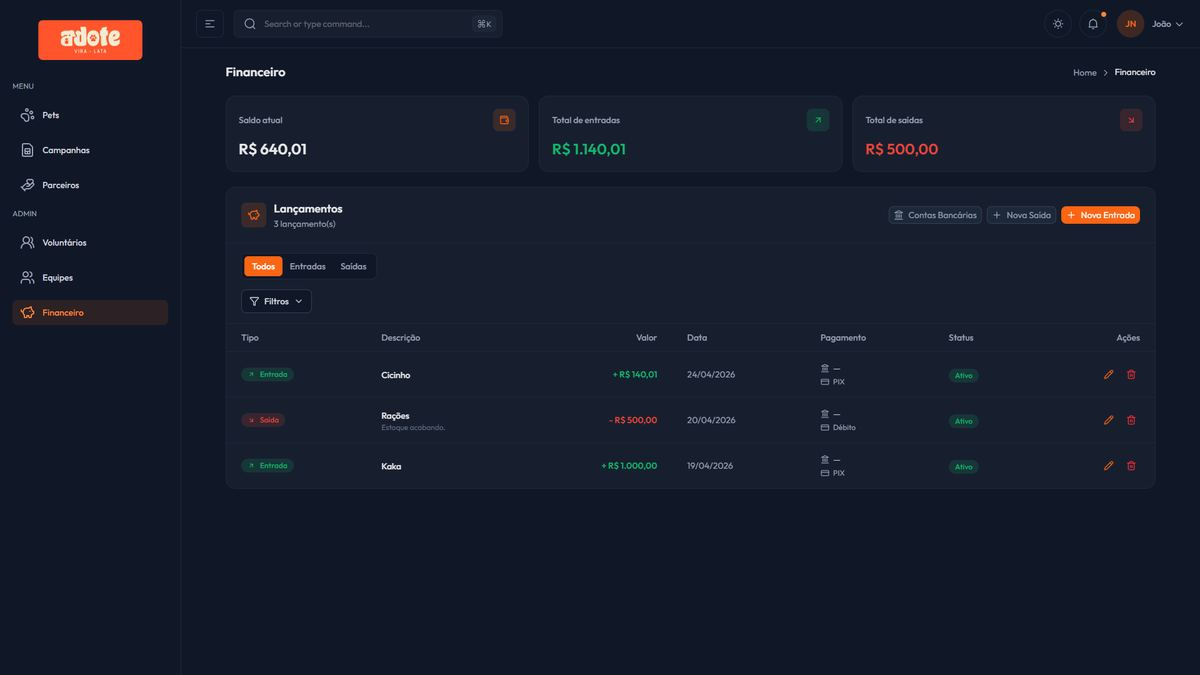
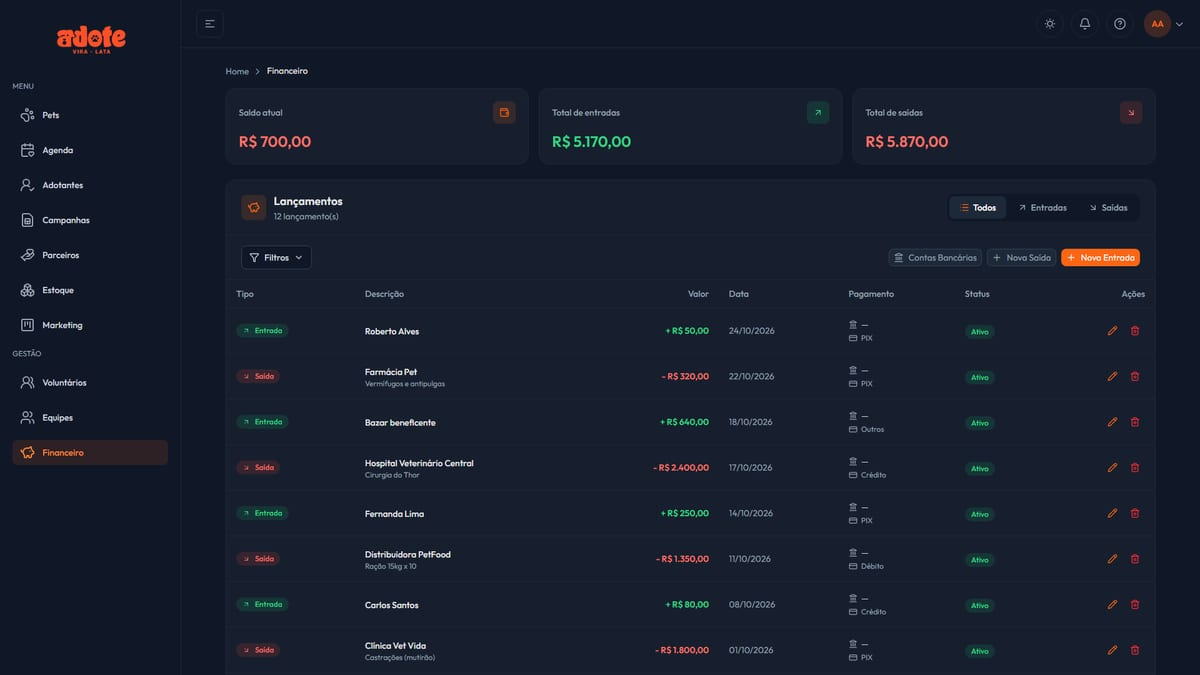
Atualiza projeto AdoteVL como full-stack
- AdoteVL passa a ser o primeiro card (destaque), com papel Full-stack
- Stack: React, TypeScript, Tailwind, NestJS e PostgreSQL; adiciona skill NestJS
- Novo resumo pt-BR/en cobrindo front-end, back-end, JWT, tempo real e PWA
- Galeria refeita com 9 telas da versão atual (kanban, pets, agenda, ficha, estoque, marketing, financeiro, tema claro e mobile)
- Remove prints antigos de modal, pets claro e voluntários

diff --git a/src/data/projects.ts b/src/data/projects.ts
@@ -1,9 +1,12 @@
+import adotevlAdotantesKanbanJpg from '@/assets/images/project-adotevl-adotantes-kanban.jpg'
+import adotevlAgendaJpg from '@/assets/images/project-adotevl-agenda.jpg'
+import adotevlEstoqueJpg from '@/assets/images/project-adotevl-estoque.jpg'
+import adotevlFichaJpg from '@/assets/images/project-adotevl-ficha.jpg'
 import adotevlFinanceiroJpg from '@/assets/images/project-adotevl-financeiro.jpg'
+import adotevlKanbanLightJpg from '@/assets/images/project-adotevl-kanban-light.jpg'
+import adotevlMarketingJpg from '@/assets/images/project-adotevl-marketing.jpg'
 import adotevlMobileJpg from '@/assets/images/project-adotevl-mobile.jpg'
-import adotevlModalJpg from '@/assets/images/project-adotevl-modal.jpg'
 import adotevlPetsJpg from '@/assets/images/project-adotevl-pets.jpg'
-import adotevlPetsLightJpg from '@/assets/images/project-adotevl-pets-light.jpg'
-import adotevlVoluntariosJpg from '@/assets/images/project-adotevl-voluntarios.jpg'
 import salesCrudClientesJpg from '@/assets/images/project-salescrud-clientes.jpg'
 import salesCrudDashboardJpg from '@/assets/images/project-salescrud-dashboard.jpg'
 import salesCrudFormularioJpg from '@/assets/images/project-salescrud-formulario.jpg'
@@ -26,6 +29,91 @@ import type { Project } from '@/types/content'
  * any length.
  */
 export const projects: Project[] = [
+  {
+    id: 'adotevl',
+    title: 'AdoteVL',
+    year: 2026,
+    status: 'live',
+    liveUrl: 'https://adoteapp.netlify.app',
+    stack: ['react', 'typescript', 'tailwind', 'nestjs', 'postgresql'],
+    role: { 'pt-BR': 'Full-stack', en: 'Full-stack' },
+    summary: {
+      'pt-BR':
+        'Sistema de gestão da Associação Adote um Vira-Lata: pets, adoções com kanban e ficha online, agenda, estoque, marketing, voluntários e financeiro. Desenvolvi front-end (React) e back-end (NestJS, PostgreSQL), com autenticação JWT, notificações em tempo real e PWA instalável.',
+      en: 'Management system for the Adote um Vira-Lata shelter: pets, adoptions with a kanban board and online application form, schedule, inventory, marketing, volunteers and finances. I built both the front-end (React) and the back-end (NestJS, PostgreSQL), with JWT authentication, real-time notifications and an installable PWA.',
+    },
+    gallery: [
+      {
+        src: adotevlAdotantesKanbanJpg,
+        alt: {
+          'pt-BR':
+            'Kanban de adotantes do AdoteVL em tema escuro, com colunas Pendente, Aprovado, Aguardando assinatura, Concluída e Reprovado',
+          en: 'AdoteVL adopters kanban in dark theme, with Pending, Approved, Awaiting signature, Completed and Rejected columns',
+        },
+      },
+      {
+        src: adotevlPetsJpg,
+        alt: {
+          'pt-BR':
+            'Tela de Pets do AdoteVL, com cards de cada animal mostrando status de adoção, porte, peso e castração',
+          en: 'AdoteVL Pets screen, with a card per animal showing adoption status, size, weight and neutering',
+        },
+      },
+      {
+        src: adotevlAgendaJpg,
+        alt: {
+          'pt-BR': 'Agenda mensal do AdoteVL, com os turnos de voluntários marcados no calendário',
+          en: 'AdoteVL monthly schedule, with volunteer shifts on the calendar',
+        },
+      },
+      {
+        src: adotevlFichaJpg,
+        alt: {
+          'pt-BR':
+            'Ficha de adoção pública do AdoteVL, formulário em 7 etapas com o pet escolhido em destaque',
+          en: 'AdoteVL public adoption form, a 7-step form with the chosen pet highlighted',
+        },
+      },
+      {
+        src: adotevlEstoqueJpg,
+        alt: {
+          'pt-BR':
+            'Tela de Estoque do AdoteVL, tabela de produtos com tipo, quantidade e vencimento',
+          en: 'AdoteVL Inventory screen, a product table with type, quantity and expiry date',
+        },
+      },
+      {
+        src: adotevlMarketingJpg,
+        alt: {
+          'pt-BR':
+            'Quadro de Marketing do AdoteVL, com cards de conteúdo por rede social em colunas de produção',
+          en: 'AdoteVL Marketing board, with content cards per social network in production columns',
+        },
+      },
+      {
+        src: adotevlFinanceiroJpg,
+        alt: {
+          'pt-BR':
+            'Tela Financeiro do AdoteVL, com saldo, totais de entradas e saídas e tabela de lançamentos',
+          en: 'AdoteVL Finances screen, with balance, income and expense totals and a transactions table',
+        },
+      },
+      {
+        src: adotevlKanbanLightJpg,
+        alt: {
+          'pt-BR': 'Kanban de adotantes do AdoteVL em tema claro',
+          en: 'AdoteVL adopters kanban in light theme',
+        },
+      },
+      {
+        src: adotevlMobileJpg,
+        alt: {
+          'pt-BR': 'Três telas do AdoteVL no celular: pets, agenda e menu lateral',
+          en: 'Three AdoteVL mobile screens: pets, schedule and side menu',
+        },
+      },
+    ],
+  },
   {
     id: 'standby-banco-horas',
     title: 'Banco de Horas',
@@ -94,70 +182,6 @@ export const projects: Project[] = [
         alt: {
           'pt-BR': 'Dashboard do Banco de Horas em tema claro',
           en: 'Banco de Horas dashboard in light theme',
-        },
-      },
-    ],
-  },
-  {
-    id: 'adotevl',
-    title: 'AdoteVL',
-    year: 2026,
-    status: 'live',
-    liveUrl: 'https://adoteapp.netlify.app',
-    stack: ['react', 'typescript', 'tailwind'],
-    role: { 'pt-BR': 'Front-end', en: 'Front-end' },
-    summary: {
-      'pt-BR':
-        'Painel administrativo da Associação Adote um Vira-Lata: pets, campanhas, parceiros, voluntários, equipes e financeiro, com tema claro/escuro e layout responsivo. Atuei apenas no front-end.',
-      en: 'Admin panel for the Adote um Vira-Lata shelter: pets, campaigns, partners, volunteers, teams and finances, with light/dark theme and responsive layout. I worked on the front-end only.',
-    },
-    // The volunteers screen is a blurred copy: the original shows real CPF,
-    // e-mail and phone numbers. Never swap it for the raw capture.
-    gallery: [
-      {
-        src: adotevlPetsJpg,
-        alt: {
-          'pt-BR':
-            'Tela de Pets do AdoteVL em tema escuro, com cards de cães disponíveis para adoção',
-          en: 'AdoteVL Pets screen in dark theme, with cards of dogs available for adoption',
-        },
-      },
-      {
-        src: adotevlFinanceiroJpg,
-        alt: {
-          'pt-BR':
-            'Tela Financeiro do AdoteVL, com saldo, totais de entradas e saídas e tabela de lançamentos',
-          en: 'AdoteVL Finances screen, with balance, income and expense totals and a transactions table',
-        },
-      },
-      {
-        src: adotevlModalJpg,
-        alt: {
-          'pt-BR':
-            'Modal de cadastro de pet do AdoteVL, com campos de nome, espécie, raça, porte e descrição',
-          en: 'AdoteVL pet registration modal, with name, species, breed, size and description fields',
-        },
-      },
-      {
-        src: adotevlVoluntariosJpg,
-        alt: {
-          'pt-BR':
-            'Tela de Voluntários do AdoteVL, tabela de cadastros aprovados com dados pessoais borrados',
-          en: 'AdoteVL Volunteers screen, a table of approved registrations with personal data blurred',
-        },
-      },
-      {
-        src: adotevlPetsLightJpg,
-        alt: {
-          'pt-BR': 'Tela de Pets do AdoteVL em tema claro',
-          en: 'AdoteVL Pets screen in light theme',
-        },
-      },
-      {
-        src: adotevlMobileJpg,
-        alt: {
-          'pt-BR': 'Três telas do AdoteVL no celular: login, menu lateral e financeiro',
-          en: 'Three AdoteVL mobile screens: login, side menu and finances',
         },
       },
     ],

diff --git a/src/data/skills.ts b/src/data/skills.ts
@@ -100,6 +100,13 @@ export const skills: Skill[] = [
     color: { light: '#5fa04e', dark: '#64a553' },
   },
   { id: 'express', name: 'Express', group: 'backend', icon: 'simple-icons:express' },
+  {
+    id: 'nestjs',
+    name: 'NestJS',
+    group: 'backend',
+    icon: 'simple-icons:nestjs',
+    color: { light: '#e0234e', dark: '#f4677f' },
+  },
 
   // --- front-end ---
   {
